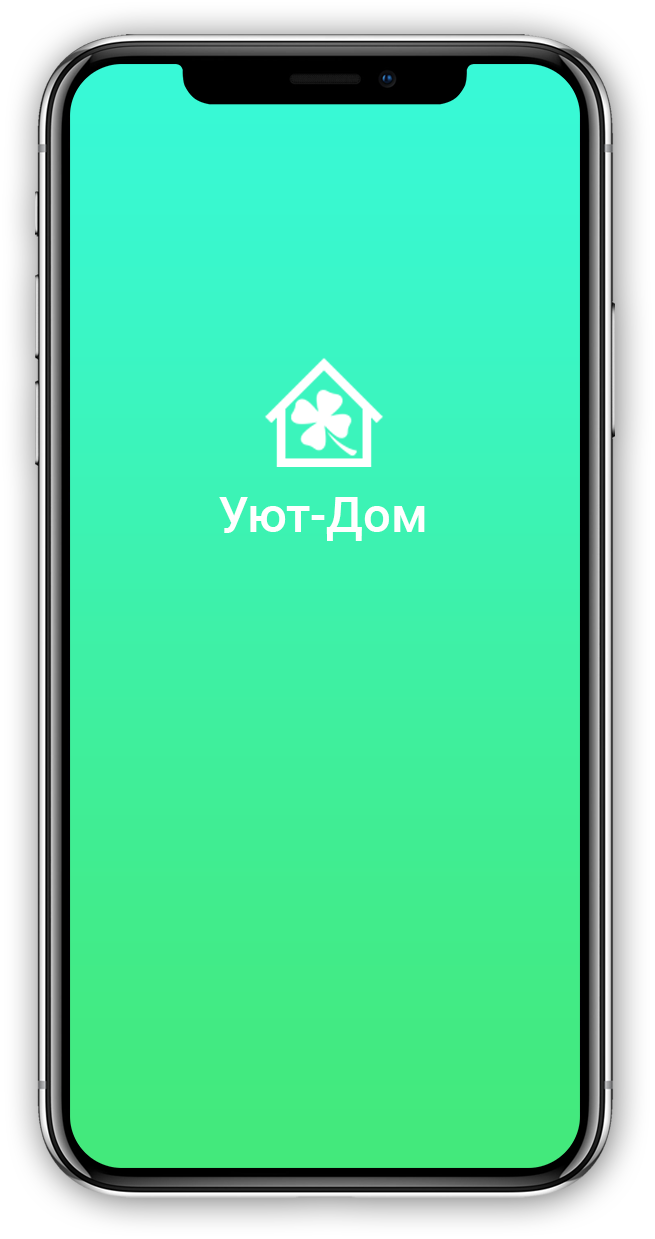
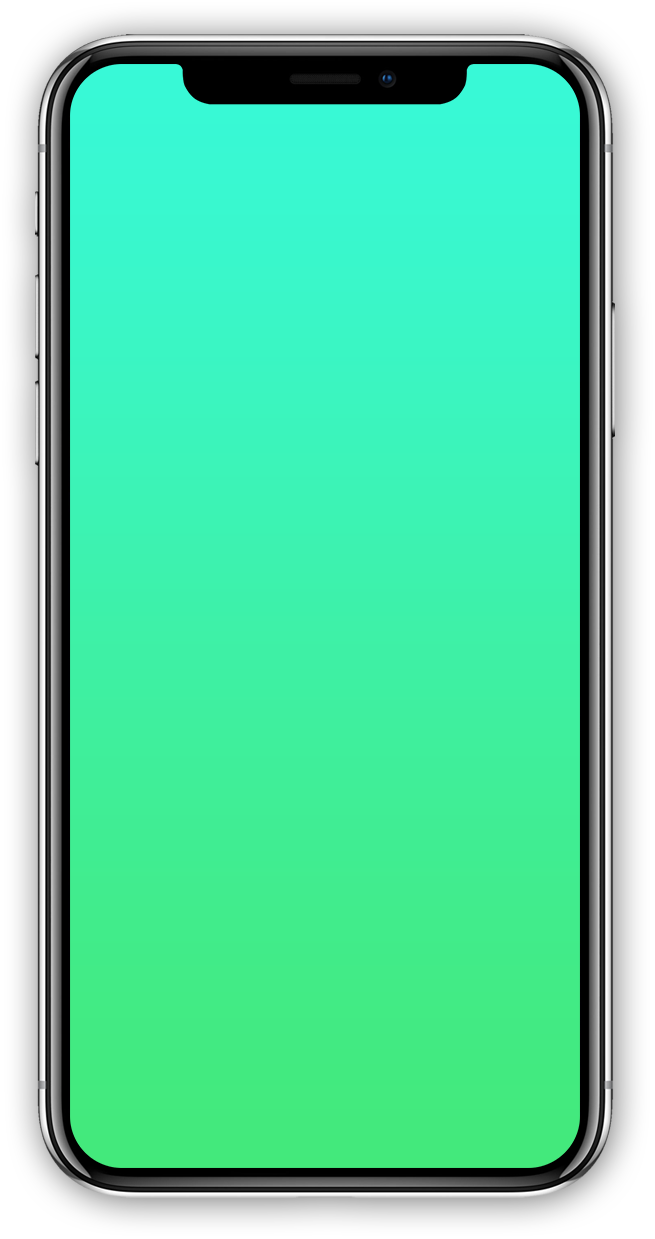
Leningrad

Changed region(s): [[0.3359, 0.276, 0.6718, 0.4294]]

diff --git a/index.html b/index.html
@@ -5,13 +5,20 @@
 	<link rel="stylesheet" type="text/css" href="styles/styles.css">
 	<link rel="stylesheet" type="text/css" href="styles/adaptive.css">
 	<link href="https://fonts.googleapis.com/css?family=Roboto:100,300,400,500,700,900&amp;subset=cyrillic" rel="stylesheet">
-	<title>Wrapper</title>
+	<link href="https://fonts.googleapis.com/css?family=Comfortaa&display=swap" rel="stylesheet">
+	<title>Ленинград клининг</title>
 </head>
 <body>
 	<section class="banner">
 		<div class="container">
+			<div class="container_logo">
+				<a href="#"> <img src="img/logo.png" alt="logo">  </a>
+			</div>
+			
 			<div class="navbar clearfix">
-				<a href="#"> <img src="img/logo.png" alt="logo"> </a>
+				
+				<div class="navbar_text">Ленинград клининг</div>
+				
 				<nav>
 					<ul>
 						<li><a class="nav__link" href="#slider">Прайс</a></li>
@@ -25,7 +32,7 @@
 			</div>
 
 			<header>
-				<h1>Профессиональный клининг “Уют-Дом”</h1>
+				<h1> <span>Профессиональная уборка</span> <br> “Ленинград клининг”</h1>
 						
 				<div class="header_logo">
 					<img src="img/logo_OK_h3.png">
@@ -162,7 +169,13 @@
 		<div class="iphoneX">
 			<div class="iphone_img">
 				<img src="img/iphone.png">
+				<div class="iphone_icon_logo">
+					<a href="#"><img src="img/logo.png"> </a>
+					
+				</div>
+				<span> Ленинград клининг</span>
 				<div class="iphone_number">
+
 					+7 (911) 130-39-70 <br>
 					dom100s@yandex.ru
 				</div>
@@ -195,8 +208,9 @@
 	
 	<section id="shape" class="shape">
 		<div class="shape_text">
-			<div class="shape_name">Профессиональный <br>
-клининг “Уют-Дом”</div>
+			<div class="shape_name">Профессиональная уборка
+	 		<br>“Ленинград клининг”
+		</div>
 			<div class="shape_number">+7 (911) 130-39-70</div>
 			<div class="shape_icon">
 				<img src="img/shape_icon.png">
@@ -212,7 +226,9 @@
 			<div class="footer_logo">
 				<a href="#">
 				<img src="img/footer_logo.png"> </a>
+
 			</div>
+			<div class="footer_text_logo">Ленинград клининг</div>
 			<div class="footer_icon">
 				<a href="https://vk.com" target="_blank"><img class="footer_img" src="img/footer_vk.png"></a>
 				<a href="https://facebook.com" target="_blank"><img class="footer_img" src="img/footer_facebook.png"></a>
@@ -222,7 +238,7 @@
 				
 			</div>
 			<div class="footer_text">
-				© 2019, Уют-Дом, dom100s@yandex.ru <br>
+				© 2019, Ленинград клининг, dom100s@yandex.ru <br>
 				All rights reserved
 			</div>
 		</div>

diff --git a/styles/styles.css b/styles/styles.css
@@ -40,10 +40,32 @@ h3 {
 	margin: 0 auto;
 }
 
+.container_logo{
+	position: absolute;
+	
+	padding-top: 33px;
+}
+
+
+
+
 .navbar {
 	padding-top: 33px;
 	padding-bottom: 40px;
+
 	}
+
+.navbar_text {
+	font-family: 'Comfortaa', cursive;
+	font-size: 48px;
+	font-weight: 700;
+	color: #fff;
+	position: absolute;
+	padding-left: 100px;
+	padding-top: 20px;
+	text-align: center;
+	vertical-align: middle;
+}
 
 .clearfix:after {
 	content: "";
@@ -52,7 +74,7 @@ h3 {
 }
 
 .navbar img {
-	width: 239px;
+	
 	float: left;
 }
 
@@ -121,6 +143,11 @@ header {
 	width: 760px;
 }
 
+header span {
+		font-size: 24px;
+		font-weight: 400;
+		text-align: center;
+	}
 
 .header_logo {
 	margin-top: 75px;
@@ -305,8 +332,28 @@ header {
 	display: flex;
 	float: left;
 	position: relative;
+	
+}
 
+.iphone_icon_logo {
+	display: flex;
+	position: absolute;
+	padding-left: 290px;
+	padding-top: 300px;
+}
 
+.iphone_img span {
+	font-family: 'Comfortaa', cursive;
+	font-size: 48px;
+	font-weight: 700;
+	color: #fff;
+	padding-top: 100px;
+	text-align: center;
+	position: absolute;
+	width: 400px;
+	padding-top: 400px;
+	padding-left: 130px;
+	z-index: 1;
 }
 
 .iphone_text {
@@ -384,7 +431,7 @@ header {
 }
 
 .shape_name {
-	font-size: 60px;
+	font-size: 40px;
 	font-weight: 300;
 	color: #fff;
 }
@@ -447,6 +494,18 @@ header {
 	position: absolute;
 	float: left;
 
+}
+
+.footer_text_logo {
+	font-family: 'Comfortaa', cursive;
+	font-size: 24px;
+	font-weight: 700;
+	color: #fff;
+	position: absolute;
+	padding-left: 100px;
+	padding-top: 30px;
+	text-align: center;
+	vertical-align: middle;
 }
 
 .footer_icon {

diff --git a/styles/adaptive.css b/styles/adaptive.css
@@ -13,16 +13,34 @@
 		margin-left: 80px;
 	}
 	
+	.container_logo{
+	padding-left: 100px;
+	}
 
 	.navbar {
 		padding-right: 100px;
 		padding-left: 100px;
 	}
 
+	.navbar_text {
+	font-family: 'Comfortaa', cursive;
+	font-size: 24px;
+	font-weight: 700;
+	color: #fff;
+	position: absolute;
+	padding-left: 100px;
+	padding-top: 30px;
+	text-align: center;
+	vertical-align: middle;
+	width: 100px;
+}
+
 	header {
 		padding-right: 100px;
 		padding-left: 100px;
 	}
+
+
 	.clean_photo img {
 	display: none;
 	}
@@ -66,12 +84,16 @@
 		padding-left: 100px;
 	}
 
+	.footer_text_logo {
+		padding-left: 200px;
+	}
+
 }
 
 @media only screen and (min-width: 1201px) and (max-width: 1450px) {
 	
 	h1 {
-		max-width: 450px;
+		max-width: 500px;
 		font-size: 48px;
 		font-weight: 500;
 		color: #fff;
@@ -86,6 +108,10 @@
 		
 	}
 
+	.container_logo{
+	padding-left: 100px;
+	}
+	
 	.header_logo {
 	margin-top: 75px;
 	}
@@ -100,6 +126,18 @@
 		padding-right: 100px;
 		padding-left: 100px;
 	}
+
+	.navbar_text {
+	font-family: 'Comfortaa', cursive;
+	font-size: 34px;
+	font-weight: 700;
+	color: #fff;
+	position: absolute;
+	padding-left: 100px;
+	padding-top: 30px;
+	text-align: center;
+	vertical-align: middle;
+}
 
 	header {
 		
@@ -157,5 +195,8 @@
 		padding-left: 100px;
 	}
 
+	.footer_text_logo {
+		padding-left: 200px;
+	}
 
 }
